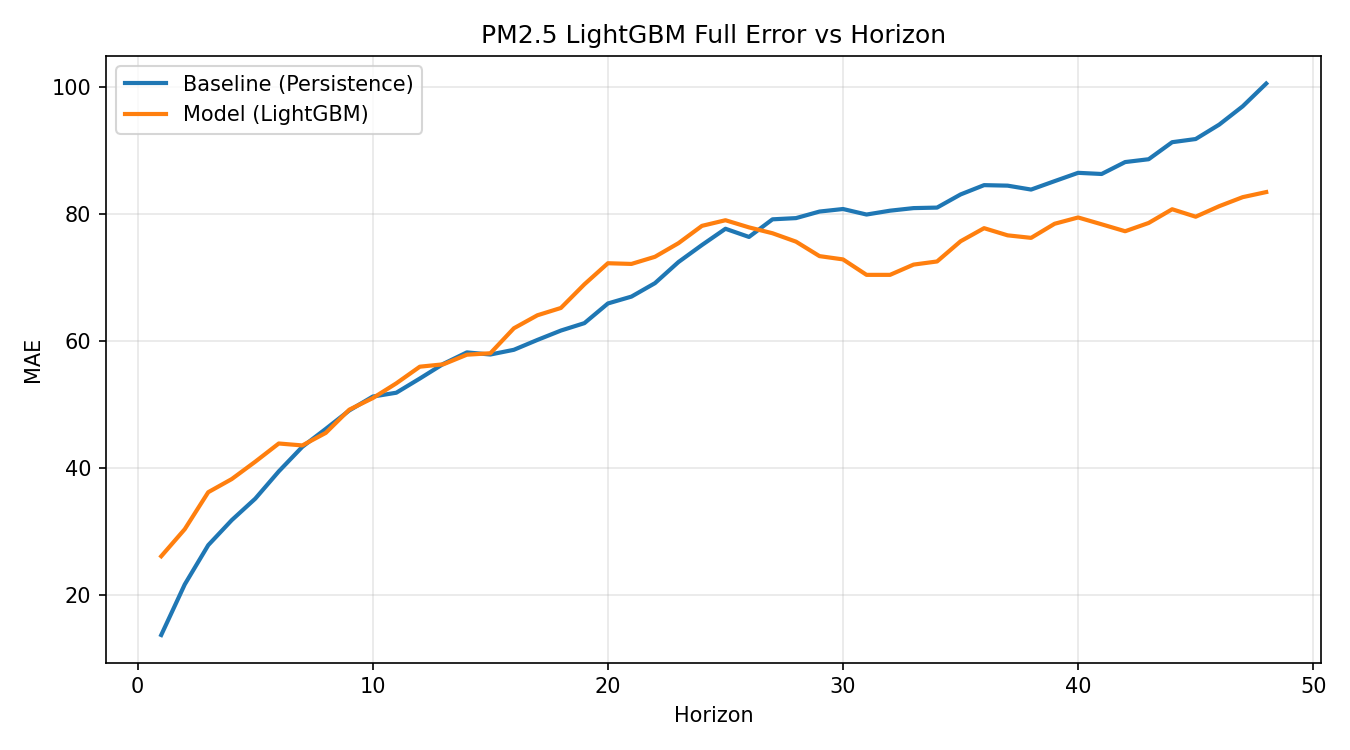
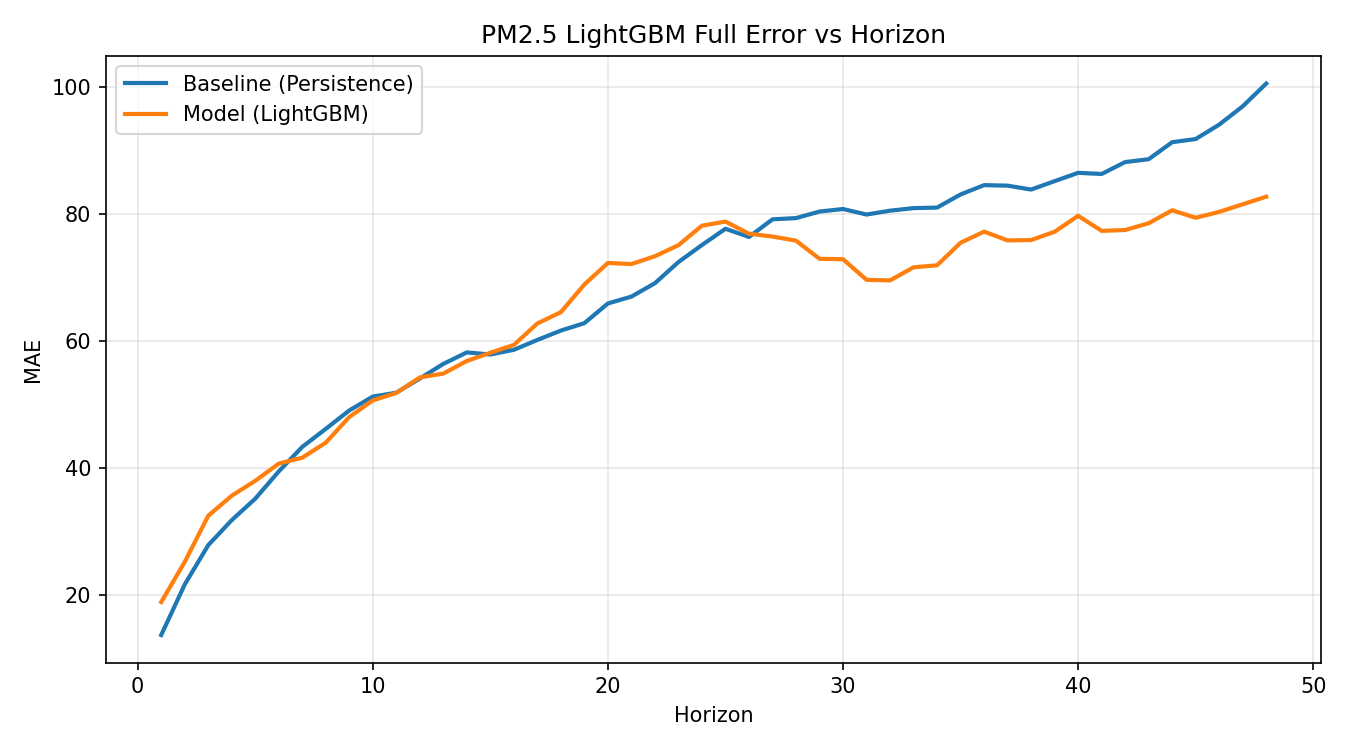
Finalize PM2.5 rerun artifacts and traffic domain notes

diff --git a/src/prepare_traffic_data.py b/src/prepare_traffic_data.py
@@ -1,0 +1,78 @@
+from __future__ import annotations
+
+import argparse
+from pathlib import Path
+
+import pandas as pd
+
+DEFAULT_INPUT = Path("data/metr-la.h5")
+DEFAULT_OUTPUT = Path("data/traffic_hourly_clean.csv")
+DEFAULT_SENSOR = "773869"
+
+def prepare_traffic_data(input_h5: Path, output_csv: Path, sensor_column: str) -> pd.DataFrame:
+    if not input_h5.exists():
+        raise FileNotFoundError(f"Input file not found: {input_h5}")
+
+    df = pd.read_hdf(input_h5, key="df")
+    sensor_col = str(sensor_column)
+    if sensor_col not in df.columns:
+        raise ValueError(f"Sensor column not found in METR-LA raw data: {sensor_col}")
+
+    out = pd.DataFrame(
+        {
+            "timestamp": pd.to_datetime(df.index, errors="coerce", utc=False),
+            "value": pd.to_numeric(df[sensor_col], errors="coerce"),
+        }
+    )
+
+    # Domain-specific contract for Paper 2 traffic domain:
+    # 5-min METR-LA speed -> hourly mean -> regular hourly series.
+    out = out.dropna(subset=["timestamp"]).sort_values("timestamp")
+    out = out.drop_duplicates(subset=["timestamp"], keep="last")
+    out = out.set_index("timestamp").resample("h").mean()
+    out = out.asfreq("h")
+    out["value"] = out["value"].ffill()
+    out = out.dropna(subset=["value"]).sort_index().reset_index()
+
+    output_csv.parent.mkdir(parents=True, exist_ok=True)
+    out.to_csv(output_csv, index=False)
+    return out
+
+
+def main() -> None:
+    parser = argparse.ArgumentParser(
+        description=(
+            "Prepare METR-LA HDF into canonical hourly timestamp/value format "
+            "using one univariate speed sensor."
+        )
+    )
+    parser.add_argument(
+        "--input",
+        type=Path,
+        default=DEFAULT_INPUT,
+        help="Raw METR-LA HDF path (expects key='df')",
+    )
+    parser.add_argument(
+        "--output",
+        type=Path,
+        default=DEFAULT_OUTPUT,
+        help="Cleaned output CSV path (canonical timestamp,value, hourly)",
+    )
+    parser.add_argument(
+        "--sensor",
+        type=str,
+        default=DEFAULT_SENSOR,
+        help="METR-LA sensor column to extract as canonical univariate series",
+    )
+    args = parser.parse_args()
+
+    cleaned = prepare_traffic_data(args.input, args.output, args.sensor)
+    print(f"Saved cleaned traffic data: {args.output}")
+    print(f"Sensor: {args.sensor}")
+    print(f"Rows: {len(cleaned)}")
+    if not cleaned.empty:
+        print(f"Time range: {cleaned['timestamp'].iloc[0]} -> {cleaned['timestamp'].iloc[-1]}")
+
+
+if __name__ == "__main__":
+    main()

diff --git a/paper/notes/traffic_skill_pattern_note.md b/paper/notes/traffic_skill_pattern_note.md
@@ -1,0 +1,18 @@
+# Traffic Skill Pattern Note
+
+In the METR-LA traffic-speed experiment (sensor `773869`), the empirical `Skill(h)` curve is fragmented rather than smoothly monotonic.
+
+Reported values remain:
+- `H*(relax) = 71`
+- `H*(strict) = 22`
+- longest contiguous positive interval `[h_start, h_end] = [50, 71]`
+- first positive interval `[4, 23]`
+
+Interpretation:
+- traffic exhibits a fragmented `Skill(h)` profile;
+- useful positive skill emerges early at `[4, 23]`;
+- the longest contiguous positive-skill interval appears later at `[50, 71]`.
+
+This pattern does not require redefining `H*(strict)`, but it supports reporting the first positive interval descriptively when curves are fragmented.
+
+The periodic dips at `h=24` and `h=48` are consistent with the competitiveness of daily-lag persistence in traffic speed, not a modeling artifact.

diff --git a/paper/notes/traffic_experiment_plan.md b/paper/notes/traffic_experiment_plan.md
@@ -3,6 +3,7 @@
 - Dataset: PeMS / METR-LA
 - Target: traffic speed (mph)
 - Source variable in raw data: speed (METR-LA sensor readings)
+- Canonical univariate series for initial Paper 2 traffic experiment: METR-LA sensor 773869
 - Frequency: 5-min
 - Baseline: persistence
 - Initial simple model: moving average
